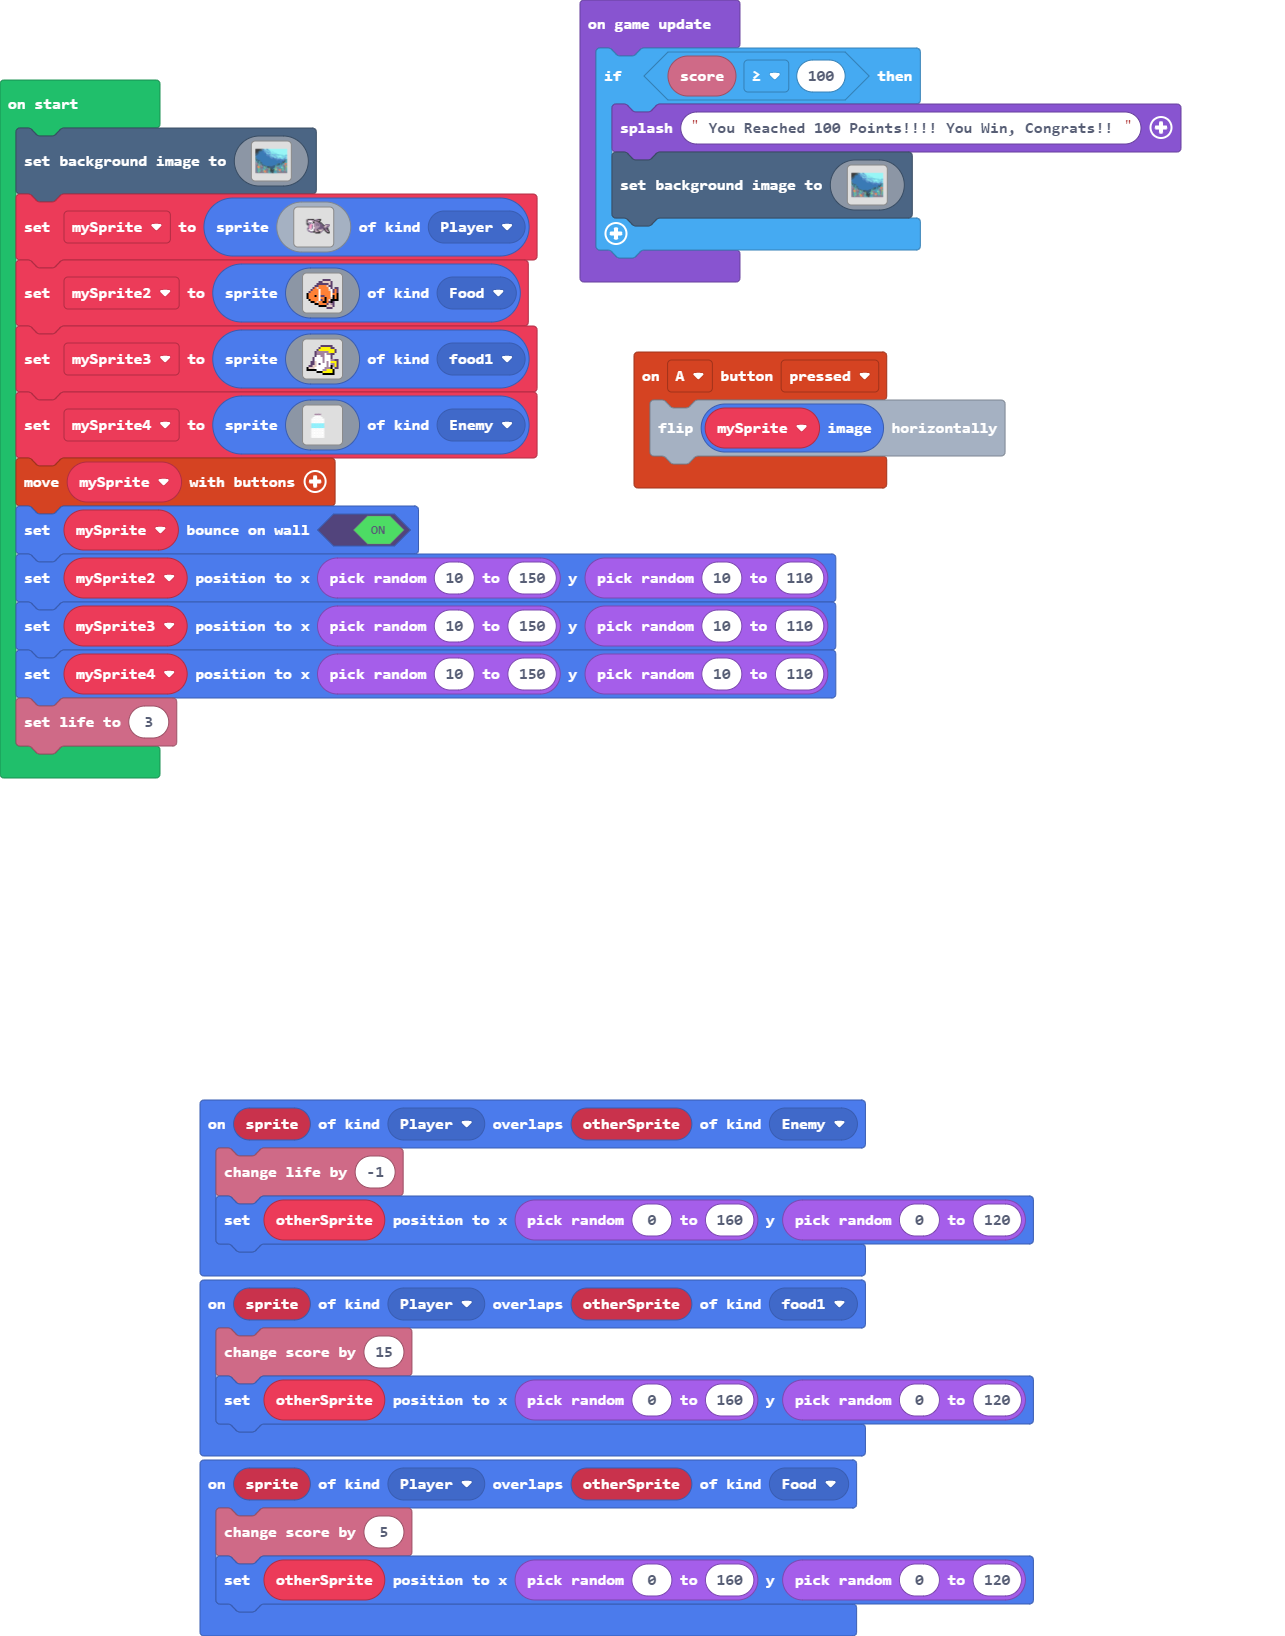
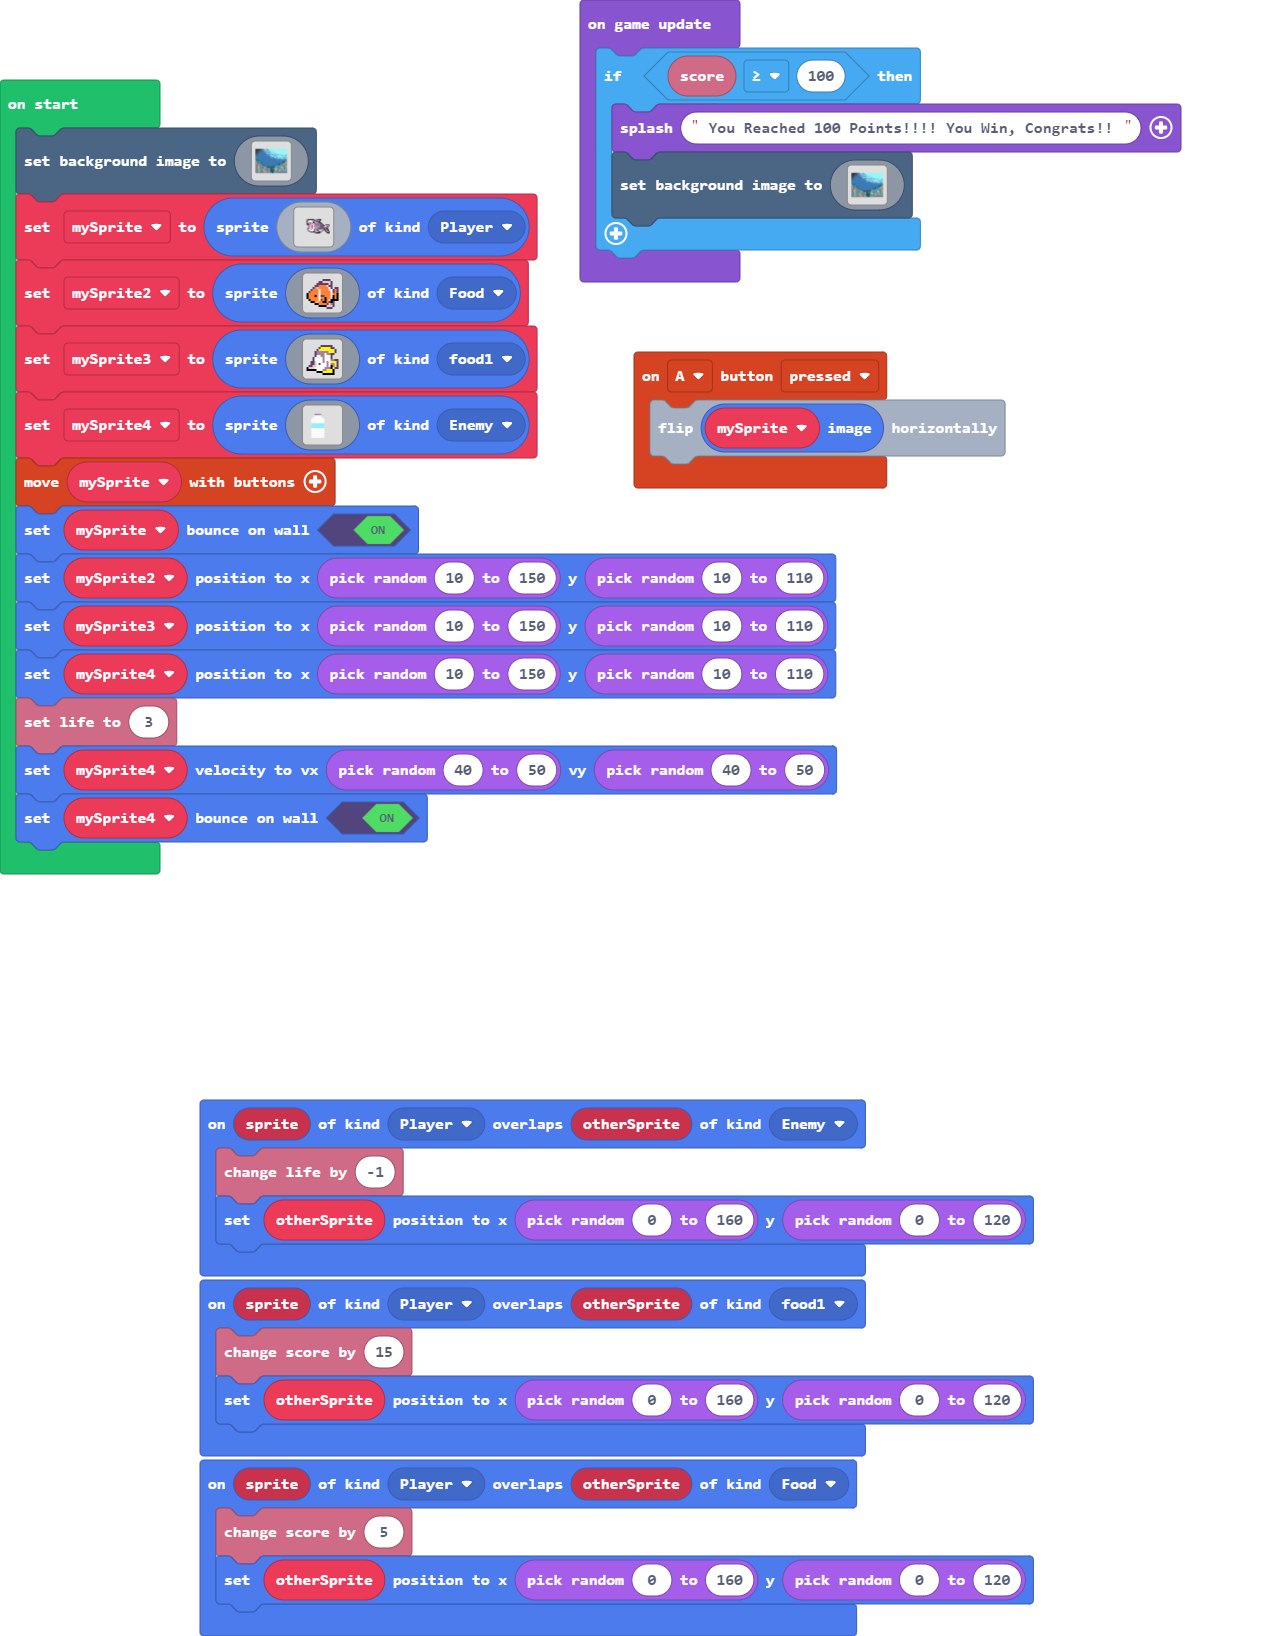
Update main.ts, main.blocks

Changed region(s): [[0.0, 0.4364, 0.6537, 0.5611]]

diff --git a/main.ts b/main.ts
@@ -222,6 +222,8 @@ mySprite2.setPosition(randint(10, 150), randint(10, 110))
 mySprite3.setPosition(randint(10, 150), randint(10, 110))
 mySprite4.setPosition(randint(10, 150), randint(10, 110))
 info.setLife(3)
+mySprite4.setVelocity(randint(40, 50), randint(40, 50))
+mySprite4.setBounceOnWall(true)
 game.onUpdate(function () {
     if (info.score() >= 100) {
         game.splash(" You Reached 100 Points!!!! You Win, Congrats!! ")
